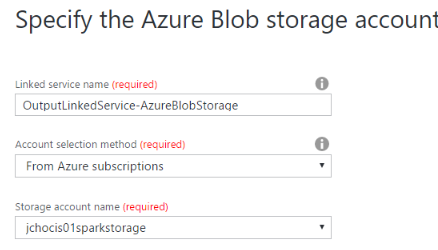
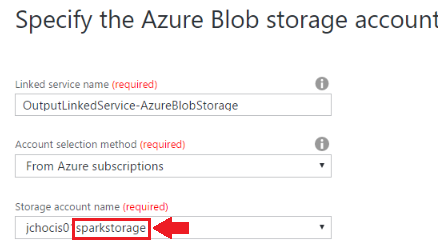
* Now use a hardcoded username/password throughout * Improved instructions for selecting storage account when copying data from on-prem * For Spark SQL, drop the table if it already exists * Note about Azure subscriptions requiring a VPN connection to access the portal

Changed region(s): [[0.1484, 0.868, 0.4452, 0.98]]

diff --git a/01 Exercise 1 - Building a Machine Learning Model.md b/01 Exercise 1 - Building a Machine Learning Model.md
@@ -30,7 +30,9 @@ This exercise has 9 tasks:
 
     ![Screenshot](images/ex02_connect_to_the_lab_vm_2.png)
 
-1. Log in with the credentials you specified for the lab VM during the deployment of the workshop prerequisites.
+1. Log in with the following credentials:
+   - User name: **cortana**
+   - Password: **Password.1!!**
 
 ## Task 2: Navigate to Machine Learning Studio
 
@@ -41,11 +43,11 @@ This exercise has 9 tasks:
 
 1. Before you begin creating a machine learning experiment, there are three datasets you need to load.
 2. Download the three CSV sample datasets from here: http://aka.ms/awtdata and save AdventureWorksTravelDatasets.zip to your Desktop.
-  - **Note:** You will need to unblock the zip file before extracting its files. Do this by right clicking on it, selecting **Properties**, and then unblocking the file in the resulting dialog.
+   - **Note:** You will need to unblock the zip file before extracting its files. Do this by right clicking on it, selecting **Properties**, and then unblocking the file in the resulting dialog.
 3. Extract the ZIP and verify you have the following files:
-  - FlightDelaysWithAirportCodes.csv
-  - FlightWeatherWithAirportCodes.csv
-  - AirportCodeLocationClean.csv
+   - FlightDelaysWithAirportCodes.csv
+   - FlightWeatherWithAirportCodes.csv
+   - AirportCodeLocationClean.csv
 4. Click **+ NEW** at the bottom, point to **Dataset** , and select **From Local File**.
 
     ![Screenshot](images/upload_the_sample_datasets_0.png)

diff --git a/README.md b/README.md
@@ -25,7 +25,8 @@ The workshop uses several, but not nearly all, of the components that are part o
 # Requirements
 
 - Microsoft Azure Subscription should be pay-as-you-go, MSDN, or EA.
-  - Recommendation is to have each user have their own Azure subscription. This will allow every attendee to have their own sandbox.
+   - If you are using your company's Azure subscription and your company requries that you be connected to your corporate network (through a VPN or otherwise), we recommend that you use a Trial or MSDN subscription for this workshop. This is due to the fact that you will be connecting to your subscription inside of a VM that is not connected to your corporate network.
+   - Recommendation is to have each user have their own Azure subscription. This will allow every attendee to have their own sandbox.
 - Setup is required before performing the steps in these exercises. Please see [http://aka.ms/cortanasetup](http://aka.ms/cortanasetup) before going any further.
 - Please keep in mind that HDInsight cluster and VM you provision as setup for this workshop will incur charges, so provision these resources closest to the workshop date as possible.  Preferably the afternoon/night before the workshop.
 

diff --git a/02 Exercise 2 - Setup Azure Data Factory.md b/02 Exercise 2 - Setup Azure Data Factory.md
@@ -25,7 +25,9 @@ This exercise has 4 tasks:
 
     ![Screenshot](images/ex02_connect_to_the_lab_vm_2.png)
 
-1. Log in with the credentials you specified for the lab VM during the deployment of the workshop prerequisites.
+1. Log in with the following credentials:
+   - User name: **cortana**
+   - Password: **Password.1!!**
 
 ## Task 2: Install and Configure Data Management Gateway on the Lab VM
 
@@ -53,7 +55,7 @@ This exercise has 4 tasks:
 ## Task 3: Log in to the Azure Portal
 
 1. Launch a new browser session and navigate to [https://portal.azure.com](https://portal.azure.com). Once prompted, log in with your Microsoft Azure credentials. If prompted, choose whether your account is an organization account or a Microsoft Account.  This will be based on which account was used to provision your Azure subscription that are using for these labs.
-  - **Note** : You may need to launch an InPrivate/Incognito session in your browser if you have multiple Microsoft Accounts.
+   - **Note** : You may need to launch an InPrivate/Incognito session in your browser if you have multiple Microsoft Accounts.
 
 ## Task 4: Create new Azure Data Factory Service
 

diff --git a/05 Exercise 5 - Summarize Data Using HDInsight Spark.md b/05 Exercise 5 - Summarize Data Using HDInsight Spark.md
@@ -14,9 +14,13 @@ Synopsis: In this exercise, attendees will prepare a summary of flight delay dat
 
     ![Screenshot](images/summarize_delays_by_airport_1.png)
 
-1. From the **Cluster Dashboards** , click **Jupyter Notebooks**. You will have to login with the cluster username/password at this step.
+1. From the **Cluster Dashboards** , click **Jupyter Notebooks**.
 
     ![Screenshot](images/summarize_delays_by_airport_2.png)
+
+1. A new browser tab should open and you will be prompted for credentials. Log in with the following:
+   - User name: **cortana**
+   - Password: **Password.1!!**
 
 1. On the **Jupyter notebooks** screen, click on the **New** dropdown list from top right corner and click **Spark**.
 
@@ -28,6 +32,8 @@ Synopsis: In this exercise, attendees will prepare a summary of flight delay dat
 
     ```scala
     import sqlContext.implicits._
+
+    sqlContext.sql("DROP TABLE IF EXISTS FlightDelays");
 
     val flightDelayTextLines = sc.textFile("wasb:///flights/Scored_FlightsAndWeather.csv")
 

diff --git a/03 Exercise 3 - Develop Data Factory Pipeline for Data Movement.md b/03 Exercise 3 - Develop Data Factory Pipeline for Data Movement.md
@@ -52,8 +52,8 @@ Synopsis: In this exercise, attendees will implement Azure Data Factory pipeline
     ![Screenshot](images/create_copy_pipeline_using_the_copy_data_wizard_7.png)
 
 1. From the **Specify the Azure Blob storage account** tab, Type in **OutputLinkedService-AzureBlobStorage** into the **Connection name**.
-2. From the **Storage account name** dropdown list, select **&lt;YOUR\_APP\_NAME&gt;sparkstorage**.
-3. Click on the **Next** button from the bottom of the screen.
+2. From the **Storage account name** dropdown list, select **<YOUR_APP_NAME>sparkstorage**. *Make sure you select the storage account with the **sparkstorage** suffix or you will have issues with subsequent exercises.*
+3. Before clicking **Next** at the bottom of the screen, *please make sure you have selected the right storage account* (it will have the **sparkstorage** suffix). Finally, click **Next**.
 
     ![Screenshot](images/create_copy_pipeline_using_the_copy_data_wizard_8.png)
 

diff --git a/06 Exercise 6 - Visualizing in Power BI Desktop.md b/06 Exercise 6 - Visualizing in Power BI Desktop.md
@@ -25,7 +25,9 @@ This exercise has 4 tasks:
 
     ![Screenshot](images/ex02_connect_to_the_lab_vm_2.png)
 
-1. Log in with the credentials you specified for the lab VM during the deployment of the workshop prerequisites.
+1. Log in with the following credentials:
+   - User name: **cortana**
+   - Password: **Password.1!!**
 
 ## Task 2: Install Spark ODBC Driver
 
